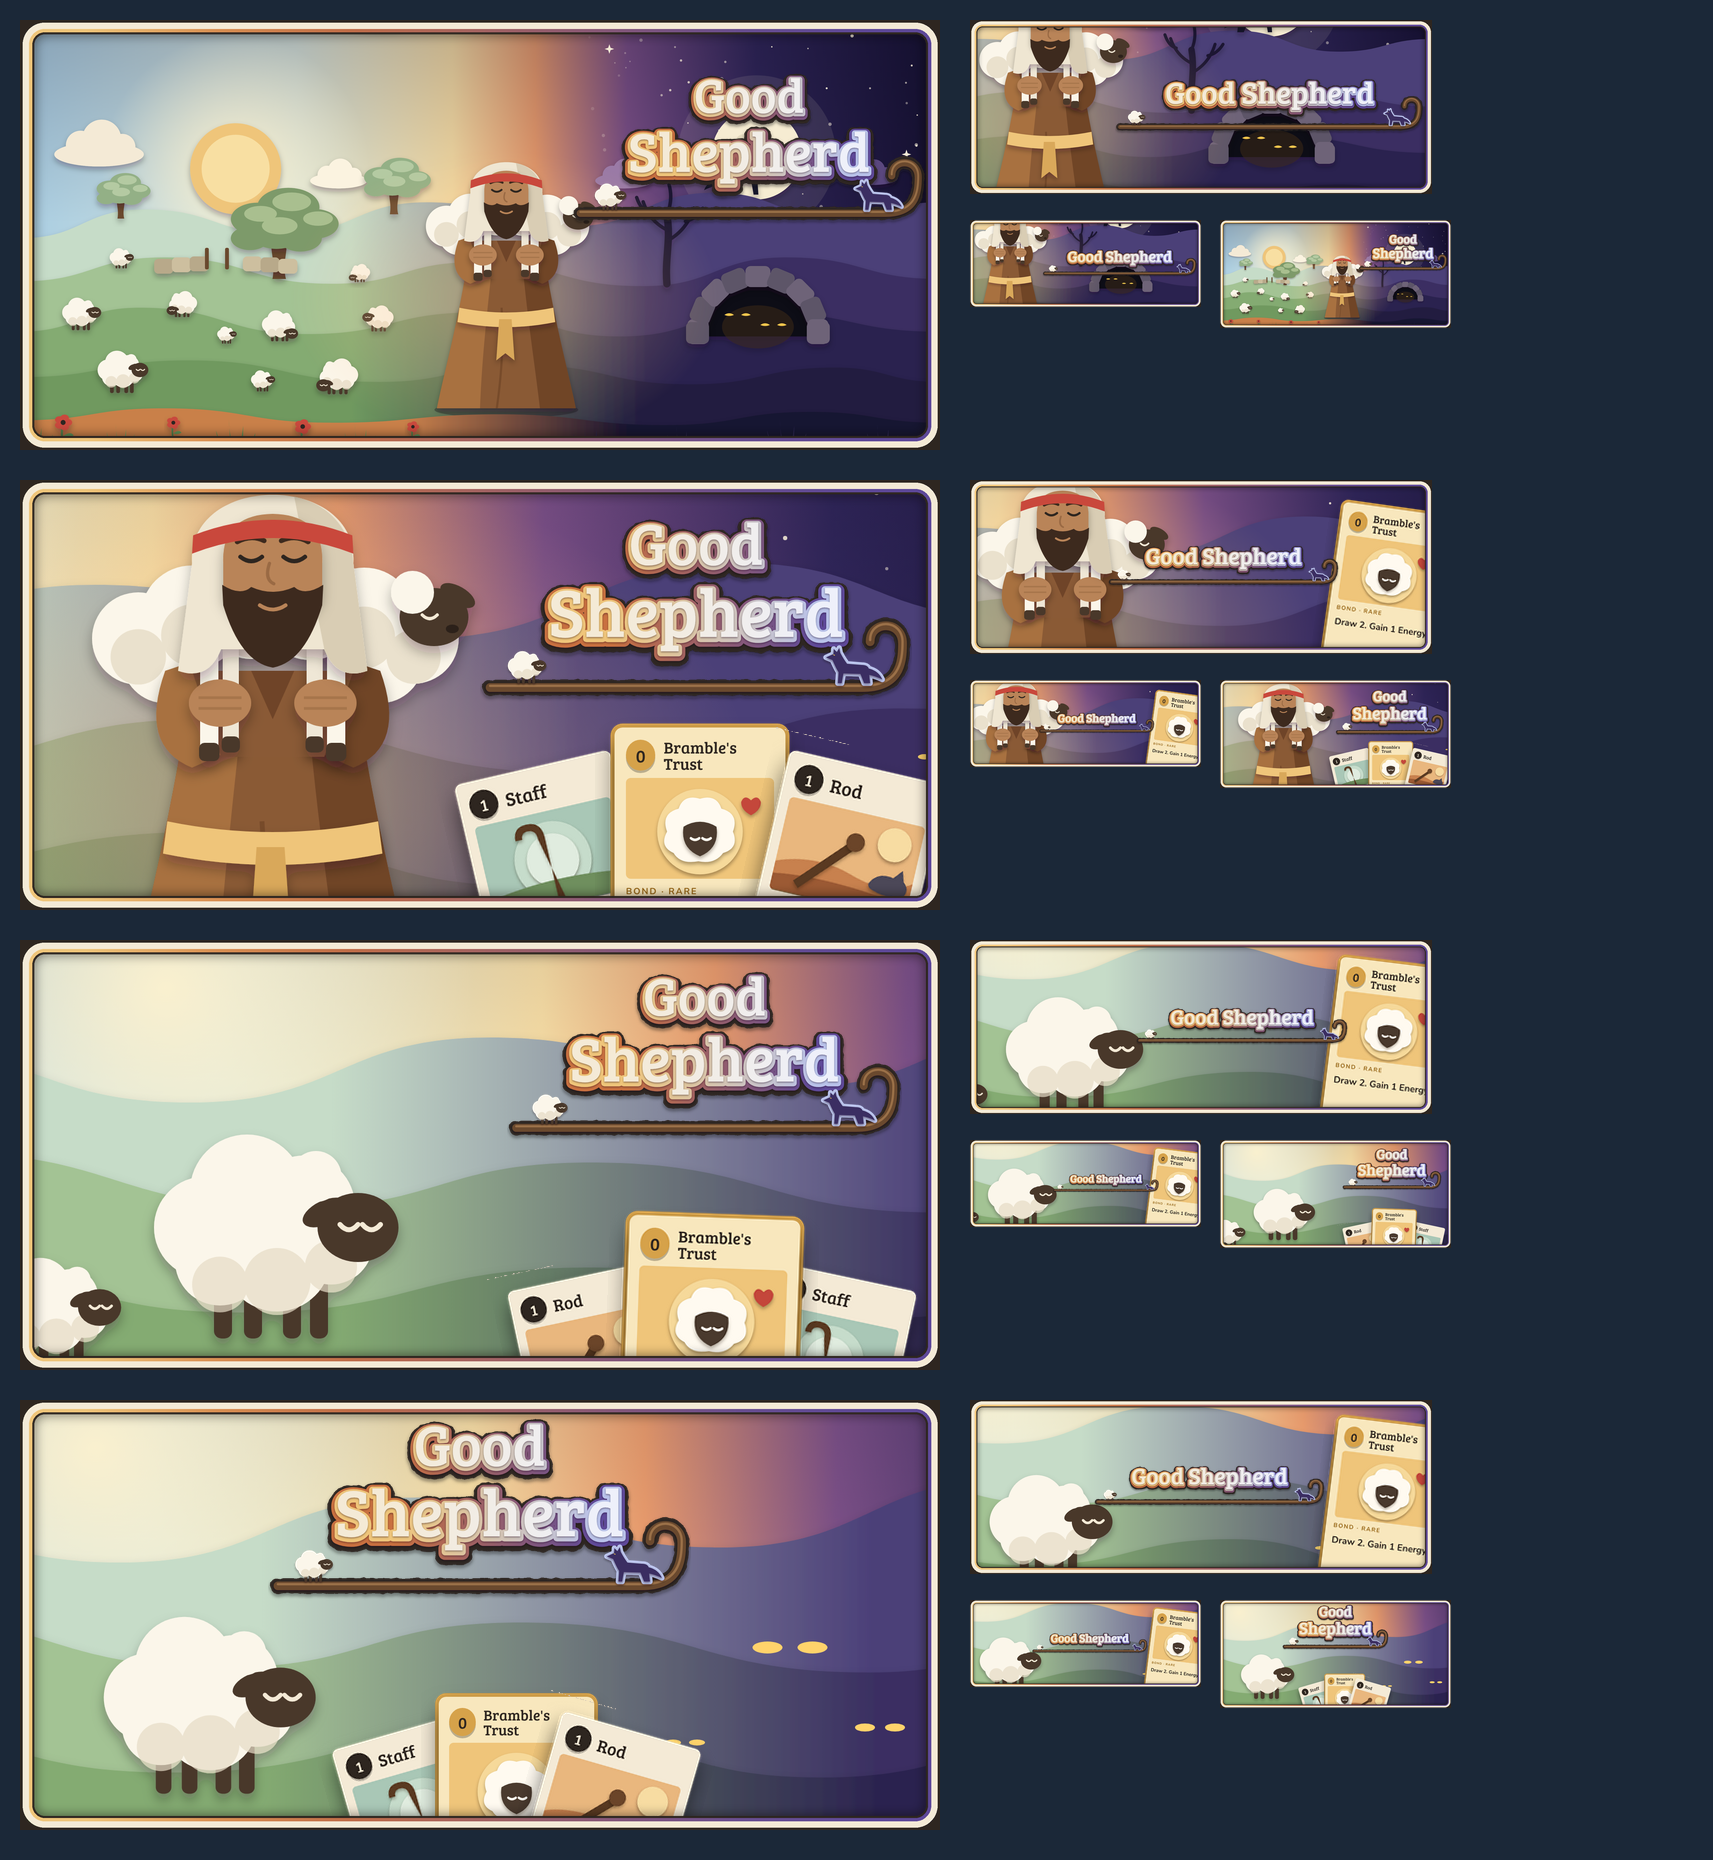
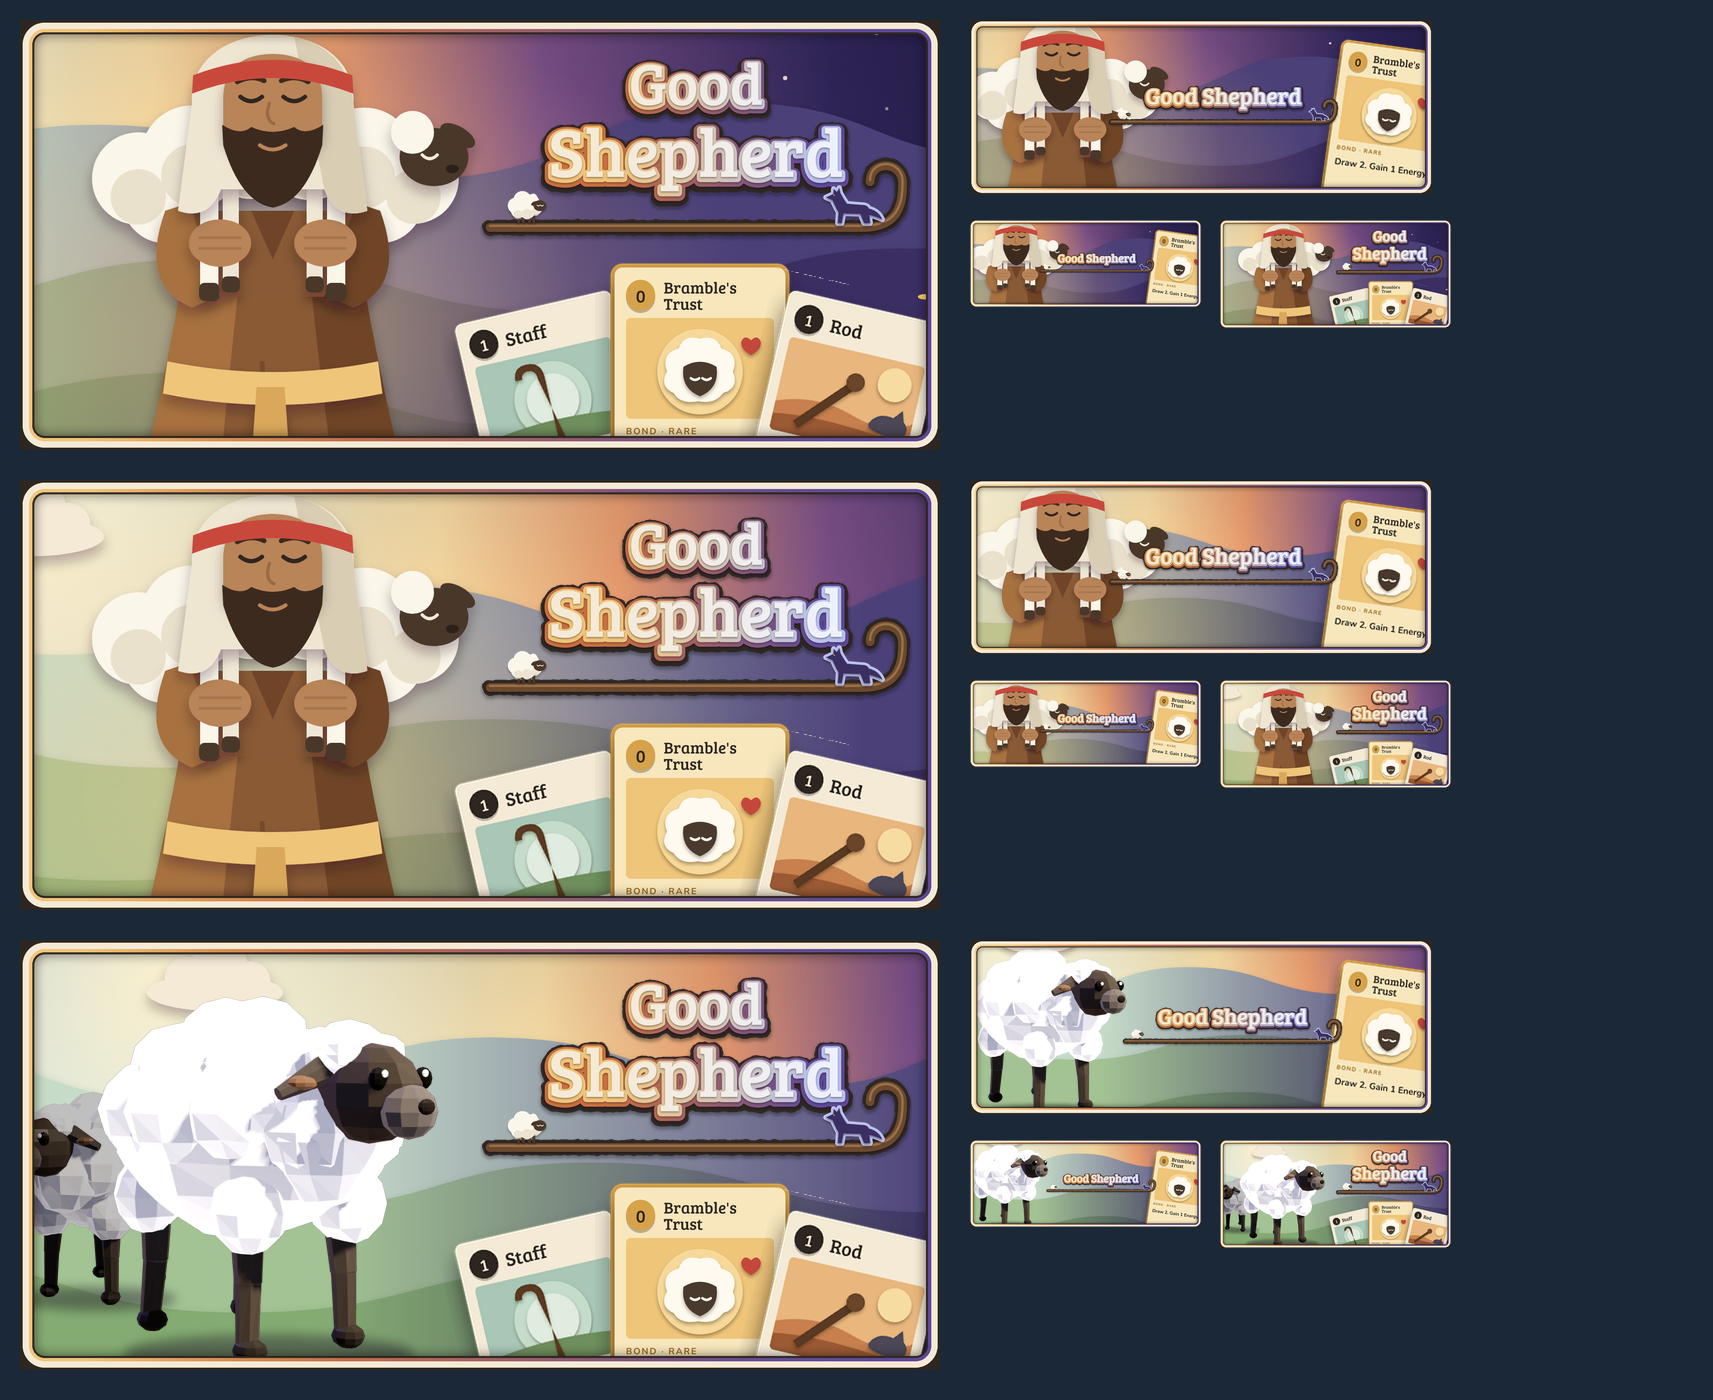
Capsule lab round 2: A in daylight, and the game's 3D sheep with the 2D cards
- a2: the shepherd stands in full daylight; night is the right-hand third only.
- d: the game's own 3D sheep (rendered by tools/trailer/pose_sheep.gd in the game
  repo, cut-outs in lab/models) on the paper backdrop with the paper cards.
- Concepts b and c are dropped from the sheet.

Claude-Session: https://claude.ai/code/session_01VpcujLBvCFhyXTsRkCLDUJ

diff --git a/tools/capsule_lab.py b/tools/capsule_lab.py
@@ -62,23 +62,25 @@ CONCEPTS = {
         "small": {"crop": (1700, 930, 620), "logo": (0.30, 0.08, 0.50, 0.84), "which": "line",
                   "cards": [("bond", 0.905, 0.62, 1.05, 8)]},
     },
-    # B. The card is the picture: one sheep's bond card held up large, the flock it came from behind it.
-    "b-the-sheep-is-the-card": {
-        "say": "The sheep becomes the card",
-        "extra": S.sheep(1250, 1480, 3.0, True) + S.sheep(820, 1640, 1.6, True),
-        "header": {"crop": (760, 905, 860), "logo": (0.53, 0.05, 0.43, 0.44), "which": "stack",
-                   "cards": [("rod", 0.63, 1.02, 0.56, -12), ("staff", 0.875, 1.02, 0.56, 12), ("bond", 0.752, 0.93, 0.66, 2)]},
-        "small": {"crop": (900, 1090, 620), "logo": (0.36, 0.10, 0.46, 0.80), "which": "line",
-                  "cards": [("bond", 0.905, 0.60, 1.08, 7)]},
+    # A, brighter: he stands in full daylight; the night is only the right-hand third, behind the name and the cards.
+    "a2-shepherd-in-daylight": {
+        "say": "A, with the day carried further across",
+        "extra": f'<ellipse cx="1500" cy="1500" rx="900" ry="620" fill="url(#lampspill)"/>' + S.cloud(1050, 1010, 0.8) + S.shepherd(1500, 1960, 1.0),
+        "header": {"crop": (1030, 905, 800), "logo": (0.50, 0.05, 0.47, 0.50), "which": "stack",
+                   "cards": [("staff", 0.585, 0.93, 0.62, -13), ("bond", 0.74, 0.86, 0.66, 0), ("rod", 0.895, 0.93, 0.62, 13)]},
+        "small": {"crop": (1170, 930, 620), "logo": (0.30, 0.08, 0.50, 0.84), "which": "line",
+                  "cards": [("bond", 0.905, 0.62, 1.05, 8)]},
     },
-    # C. Two halves and nothing else: a sheep in daylight, eyes in the dark, the hand of cards between.
-    "c-day-night-cards": {
-        "say": "Day sheep, night eyes, cards between",
-        "extra": S.sheep(1260, 1500, 2.6, True) + eyes(2440, 1400, 1.5) + eyes(2620, 1560, 1.0) + eyes(2230, 1590, 0.8),
-        "header": {"crop": (900, 905, 860), "logo": (0.27, 0.035, 0.46, 0.44), "which": "stack",
-                   "cards": [("staff", 0.445, 1.0, 0.56, -16), ("bond", 0.54, 0.95, 0.60, 0), ("rod", 0.635, 1.0, 0.56, 16)]},
-        "small": {"crop": (1000, 1080, 600), "logo": (0.27, 0.10, 0.50, 0.80), "which": "line",
-                  "cards": [("bond", 0.90, 0.60, 1.08, 7)]},
+    # D. The game's own 3D sheep (tools/trailer/pose_sheep.gd in the game repo) in daylight, with the 2D cards.
+    "d-3d-sheep-2d-cards": {
+        "say": "3D sheep from the game, 2D cards",
+        "extra": S.cloud(1150, 1010, 0.8),
+        "header": {"crop": (760, 905, 860), "logo": (0.50, 0.05, 0.47, 0.50), "which": "stack",
+                   "models": [("sheep-left", 0.085, 0.60, 0.50, 0.75), ("sheep-right", 0.27, 0.56, 0.86, 1.0)],
+                   "cards": [("staff", 0.585, 0.93, 0.62, -13), ("bond", 0.74, 0.86, 0.66, 0), ("rod", 0.895, 0.93, 0.62, 13)]},
+        "small": {"crop": (900, 1000, 640), "logo": (0.33, 0.08, 0.48, 0.84), "which": "line",
+                  "models": [("sheep-right", 0.17, 0.54, 0.98, 1.0)],
+                  "cards": [("bond", 0.905, 0.62, 1.05, 8)]},
     },
 }
 SIZES = {"header": (920, 430), "small": (462, 174)}
@@ -107,6 +109,20 @@ def build(key, fmt):
     x0, y0, ch = f["crop"]
     cw = ch * w / h
     art = Image.open(os.path.join(TMP, key + ".png")).convert("RGB").crop((int(x0), int(y0), int(x0 + cw), int(y0 + ch))).resize((w, h), Image.LANCZOS).convert("RGBA")
+    for name, cx, cy, ht, light in f.get("models", []):   # 3D cut-outs: centre x, centre y, height, brightness
+        m = Image.open(os.path.join(ROOT, "lab", "models", name + ".png")).convert("RGBA")
+        m = m.resize((int(m.width * ht * h / m.height), int(ht * h)), Image.LANCZOS)
+        if light != 1.0:
+            from PIL import ImageEnhance
+            r, g, b2, al = m.split()
+            m = Image.merge("RGBA", (*ImageEnhance.Brightness(Image.merge("RGB", (r, g, b2))).enhance(light).split(), al))
+        # a soft shadow on the ground under her, and a faint one behind
+        sh = Image.new("RGBA", art.size, (0, 0, 0, 0))
+        from PIL import ImageDraw
+        gx, gy = cx * w, cy * h + m.height * 0.47
+        ImageDraw.Draw(sh).ellipse((gx - m.width * 0.42, gy - m.height * 0.05, gx + m.width * 0.42, gy + m.height * 0.05), fill=(30, 22, 40, 110))
+        art.alpha_composite(sh.filter(ImageFilter.GaussianBlur(h * 0.012)))
+        art.alpha_composite(m, (int(cx * w - m.width / 2), int(cy * h - m.height / 2)))
     for name, cx, cy, ht, tilt in f["cards"]:
         cd = card(name, ht * h, tilt)
         art.alpha_composite(cd, (int(cx * w - cd.width / 2), int(cy * h - cd.height / 2)))
@@ -123,7 +139,7 @@ def main():
     os.makedirs(OUT, exist_ok=True)
     raster([(k, backdrop(c["extra"])) for k, c in CONCEPTS.items()])
     now = [Image.open(os.path.join(brand.B, "steam", n)).convert("RGB") for n in ("header-capsule-920x430.png", "small-capsule-462x174.png")]
-    rows = [("now", "Shipped today", now[0], now[1])]
+    rows = []
     for k, c in CONCEPTS.items():
         rows.append((k, c["say"], build(k, "header"), build(k, "small")))
     # the sheet: header at full size, the small capsule at full size and at the 231 px Steam uses in lists
